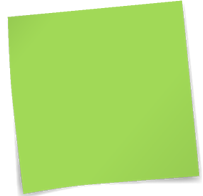
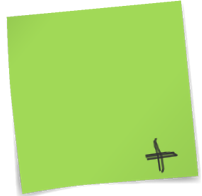
Posit de la sección de intro con imágenes

Changed region(s): [[0.0297, 0.0918, 0.1188, 1.0], [0.7129, 0.7041, 0.8911, 0.8878]]

diff --git a/app/assets/stylesheets/custom.css.scss b/app/assets/stylesheets/custom.css.scss
@@ -291,6 +291,11 @@ ul.nav-footer {
 		position: absolute;
 		top: 25px;
 		left: 20px;
+		img {
+			position: absolute;
+			top: 75px;
+			left: 17px;
+		}
 	}
 }
 
@@ -309,6 +314,12 @@ ul.nav-footer {
 		-webkit-transform:rotate($company-box-rotation);
 		-o-transform:rotate($company-box-rotation);
 	}
+	img {
+			position: absolute;
+			width: 70px;
+			top: 35px;
+			left: 17px;
+		}
 }
 
 .wrapper {
